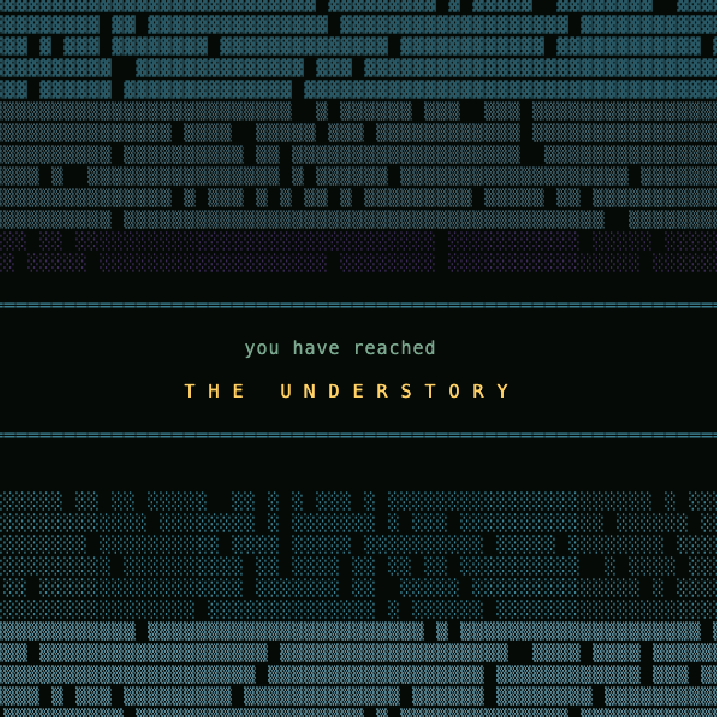
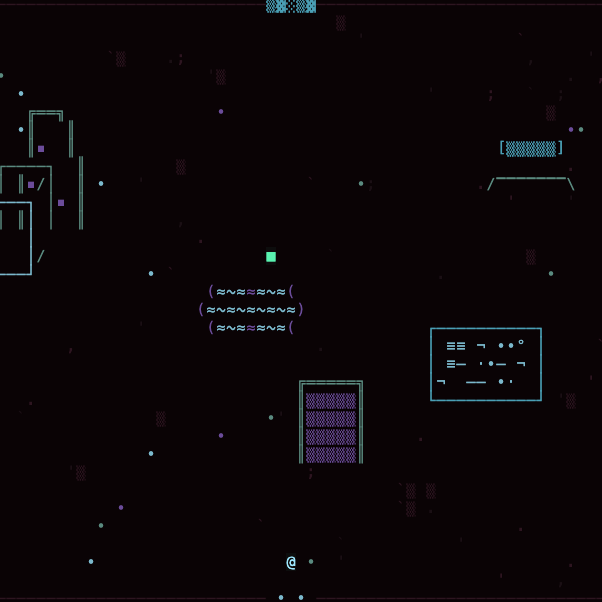
Feed camera v2: photo mode (no UI text, playfield-only crop), glyph-only captions in the mesh's tongue, nightly post pack (jpg + caption + private meta)
Claude-Session: https://claude.ai/code/session_01AFPPbMhDFvvAycwjjRbu1P

diff --git a/index.html b/index.html
@@ -202,6 +202,7 @@ let prevRoom = null, prevDir = null;
 let trans = 0;
 let bootLines = [], bootT = 0;
 let regionCard = null;   // {name, t} — artpack title screen on first entry to a region
+let photoMode = false;   // suppress all UI text for feed photographs
 
 const player = {cx:40, cy:26, step:0};
 const keys = {};
@@ -1032,12 +1033,14 @@ function frame(ts){
     const rc = (T*2|0)%2 ? "#9fe8ff" : "#d8fff0";
     cellText(scr, player.cx, player.cy, "@", rc, "#0d0d0d");
     // door-game status header, top right
-    const hdr = " FILES "+Object.keys(save.files).length+" · READ "+Object.keys(save.visited).length+"/"+(manifest?manifest.rooms.length:"?")+" · 300bps ";
-    text(scr, hdr, COLS-hdr.length-1, 0, "#8fd0a8", "#020a05");
+    if(!photoMode){
+      const hdr = " FILES "+Object.keys(save.files).length+" · READ "+Object.keys(save.visited).length+"/"+(manifest?manifest.rooms.length:"?")+" · 300bps ";
+      text(scr, hdr, COLS-hdr.length-1, 0, "#8fd0a8", "#020a05");
+    }
     // captions
     if(caption){
       caption.t += dt;
-      if(caption.t<5){
+      if(!photoMode && caption.t<5){
         text(scr, " "+caption.title+" ", 2, 0, "#ffffff", "#020a05");
         if(caption.region) text(scr, " "+caption.region+" ", 2, 1, "#4d8b68", "#020a05");
       }
@@ -1065,9 +1068,12 @@ function frame(ts){
 
   // artpack region title screen, over everything
   if(regionCard && mode==="play"){
-    regionCard.t += dt;
-    drawRegionCard();
-    if(regionCard.t > 3.4) regionCard = null;
+    if(photoMode){ regionCard = null; }
+    else {
+      regionCard.t += dt;
+      drawRegionCard();
+      if(regionCard.t > 3.4) regionCard = null;
+    }
   }
 
   // transition: character static wipe
@@ -1159,6 +1165,7 @@ window.DR = {
   player,
   warp(cx, cy){ player.cx = cx|0; player.cy = cy|0; },
   go(id, dir){ loadRoom(id, dir || null); },
+  photo(v){ photoMode = !!v; },
   state(){ return {mode, room: room && room.id, files: Object.keys(save.files)}; }
 };
 

diff --git a/engine/caption.py b/engine/caption.py
@@ -1,38 +1,95 @@
 #!/usr/bin/env python3
-"""Write tonight's feed caption: snapshots/YYYY-MM-DD-caption.txt
-covering the nodes listed in logs/last-grown.txt."""
-import datetime, json, os
+"""Assemble tonight's post pack in snapshots/post/:
+  YYYY-MM-DD.jpg          — the featured square (Instagram-ready JPEG)
+  YYYY-MM-DD-caption.txt  — glyph-only caption, no English characters
+  YYYY-MM-DD-meta.txt     — English notes for Craig's eyes only (not for posting)
+
+The caption is the node speaking in the mesh's own tongue: deterministic
+from the node's seed, dialect-inflected by its region and ground motif.
+"""
+import datetime, json, os, random, subprocess
 
 ROOT = os.path.dirname(os.path.dirname(os.path.abspath(__file__)))
-last = os.path.join(ROOT, "logs", "last-grown.txt")
-if not os.path.exists(last):
-    raise SystemExit(0)
-ids = [l.strip() for l in open(last) if l.strip()]
-if not ids:
-    raise SystemExit(0)
+SNAP = os.path.join(ROOT, "snapshots")
+POST = os.path.join(SNAP, "post")
+PAINTED = {"fields", "roads", "board", "orchard", "gradient", "qr"}
 
-manifest = json.load(open(os.path.join(ROOT, "rooms", "manifest.json")))
-today = datetime.date.today().isoformat()
-lines = [f"ROOT · night {manifest.get('nights','?')} · {today}",
-         f"the mesh grew {len(ids)} node{'s' if len(ids)!=1 else ''} overnight.", ""]
-for rid in ids:
-    try:
-        r = json.load(open(os.path.join(ROOT, "rooms", rid + ".json")))
-    except Exception:
-        continue
-    lines.append(f"▓ {r.get('title', rid)}  ({r.get('region','')})")
-    if r.get("inscription"):
-        lines.append(f'  "{r["inscription"]}"')
-    if r.get("file", {}).get("name"):
-        lines.append(f"  file: {r['file']['name']}")
-    lines.append("")
-lines += ["a text-mode archive that grows itself every night, at 300bps.",
-          "STATUS: BEING READ",
-          "",
-          "#asciiart #ansiart #textmode #generativeart #interactivefiction "
-          "#solarpunk #australianliterature #rootgame"]
+REGION_SIGIL = {
+    "The Clean Archive": "⌂",
+    "The Comparisons": "≈",
+    "The Diagnostic Render": "⊞",
+    "The Understory": "◊",
+}
+MOTIF_CLUSTER = {
+    "grid": "┼┼", "tiles": "▚▞", "ripple": "⊙⊙", "static": "░░", "waves": "~~",
+    "circuit": "─┤", "scatter": "∙∙", "contour": "≈~", "canopy": ";;",
+    "qr": "▓▒", "fields": "▒▒", "roads": "══", "orchard": "//", "board": "⊡⊡",
+    "gradient": "░▒▓",
+}
+TOKENS = ["<>", "[]", "{}", "≈", "~", "::", ";;", "//", "\\\\", "░", "▒", "▓",
+          "⊡", "⊞", "⊠", "⌂", "⊙", "◎", "◊", "⊹", "∙", "·", "▪", "═", "║",
+          "»", "«", "()", "─", "│"]
+MIRROR = {"<": ">", ">": "<", "[": "]", "]": "[", "{": "}", "}": "{",
+          "(": ")", ")": "(", "/": "\\", "\\": "/", "»": "«", "«": "»"}
 
-os.makedirs(os.path.join(ROOT, "snapshots"), exist_ok=True)
-out = os.path.join(ROOT, "snapshots", f"{today}-caption.txt")
-open(out, "w", encoding="utf-8").write("\n".join(lines) + "\n")
-print("caption:", out)
+
+def glyph_caption(room):
+    rng = random.Random(room.get("seed", 1))
+    sig = REGION_SIGIL.get(room.get("region", ""), "⊹")
+    mot = MOTIF_CLUSTER.get((room.get("ground") or {}).get("motif", ""), "∙∙")
+    # a mirrored spine: left half seeded, right half its reflection
+    left = "".join(rng.choice(TOKENS) for _ in range(rng.randint(4, 7)))
+    right = "".join(MIRROR.get(c, c) for c in reversed(left))
+    line1 = f"{sig}{sig} {left}{mot}{right} {sig}{sig}"
+    # a quieter second line: sparse pulse
+    beats = rng.randint(3, 5)
+    line2 = " ".join("".join(rng.choice(["∙", "·", "▪", "░", "⊹"])
+                             for _ in range(rng.randint(1, 3)))
+                     for _ in range(beats))
+    return line1 + "\n" + line2
+
+
+def main():
+    last = os.path.join(ROOT, "logs", "last-grown.txt")
+    if not os.path.exists(last):
+        return
+    ids = [l.strip() for l in open(last) if l.strip()]
+    if not ids:
+        return
+    rooms = []
+    for rid in ids:
+        try:
+            rooms.append(json.load(open(os.path.join(ROOT, "rooms", rid + ".json"))))
+        except Exception:
+            pass
+    if not rooms:
+        return
+    # feature the most photogenic node: painted motifs first, else seeded pick
+    painted = [r for r in rooms if (r.get("ground") or {}).get("motif") in PAINTED]
+    pool = painted or rooms
+    featured = pool[random.Random(sum(r.get("seed", 0) for r in rooms)).randrange(len(pool))]
+
+    today = datetime.date.today().isoformat()
+    os.makedirs(POST, exist_ok=True)
+    src = os.path.join(SNAP, f"{today}-{featured['id']}.png")
+    jpg = os.path.join(POST, f"{today}.jpg")
+    if os.path.exists(src):
+        subprocess.run(["sips", "-s", "format", "jpeg", "-s", "formatOptions", "92",
+                        src, "--out", jpg], capture_output=True)
+
+    open(os.path.join(POST, f"{today}-caption.txt"), "w", encoding="utf-8").write(
+        glyph_caption(featured) + "\n")
+
+    meta = [f"featured: {featured['title']} ({featured['id']})",
+            f"region: {featured.get('region','')} · motif: {(featured.get('ground') or {}).get('motif','')}",
+            f"inscription: {featured.get('inscription','')}",
+            f"file: {(featured.get('file') or {}).get('name','')}",
+            "", "all nodes tonight:"]
+    meta += [f"  · {r['title']}" for r in rooms]
+    open(os.path.join(POST, f"{today}-meta.txt"), "w", encoding="utf-8").write(
+        "\n".join(meta) + "\n")
+    print(f"post pack: {jpg}")
+
+
+if __name__ == "__main__":
+    main()